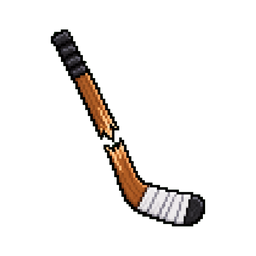
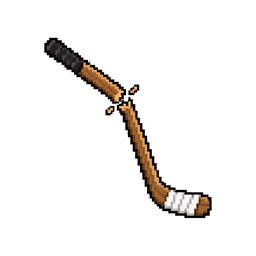
Front Office dice, inline tier art, new stick badge
The dice move from the draft spin to the Front Office screen, above Roll the
dice before the reels start (user placement; redrawn with white pips). The tier
name in the squad-summary forecast box and the results predicted-standing line
now shows the tier's badge art at text size instead of its emoji, using the
same PNGs as the big badges. The Eliminated badge is the user's redrawn broken
stick, padded a little smaller in the circle.

Changed region(s): [[0.1562, 0.0938, 0.8438, 0.9062]]

diff --git a/src/App.css b/src/App.css
@@ -362,24 +362,11 @@
 }
 
 .spin-placeholder {
-  display: flex;
-  flex-direction: column;
-  align-items: center;
-  gap: 14px;
   text-align: center;
   padding: 20px 0 8px;
   color: var(--ink-soft);
   font-size: 15px;
-}
-.spin-placeholder span {
   animation: pulse-fade 0.6s ease-in-out infinite alternate;
-}
-/* The dice hold still while the spin runs (a tumble was tried and dropped, user
-   2026-09-14); the pulsing caption underneath carries the "in progress" cue. */
-.spin-dice {
-  width: 150px;
-  height: 150px;
-  object-fit: contain;
 }
 
 @keyframes spin-pop {
@@ -1117,6 +1104,17 @@
   font-weight: 600;
   margin-top: 2px;
 }
+/* The tier's badge art at text size, in place of the emoji that used to sit
+   before the tier name inline (squad summary forecast box, results
+   "Predicted standing" line). Same PNGs as the big badge, so no extra assets. */
+.tier-inline-art {
+  display: inline-block;
+  width: 22px;
+  height: 22px;
+  object-fit: contain;
+  vertical-align: -5px;
+  margin-right: 5px;
+}
 .predicted-standing-note {
   font-size: 12px;
   color: var(--ink-soft);
@@ -1181,6 +1179,15 @@
   text-wrap: balance;
 }
 
+/* Dice art above the "Roll the dice" button on the Front Office screen (user
+   pixel art, 2026-09-14): the one moment the game literally rolls dice. */
+.front-office-dice {
+  display: block;
+  width: 150px;
+  height: 150px;
+  object-fit: contain;
+  margin: 4px auto 6px;
+}
 /* GM/Coach as two half-width cards under the lineup (below the goalie) in the recaps.
    Styled like the .results-roster-row player cards (same border, fill, radius) but
    half-width, with role stacked over name and much smaller text. */

diff --git a/src/components/FrontOfficeScreen.tsx b/src/components/FrontOfficeScreen.tsx
@@ -2,6 +2,8 @@ import { useState } from 'react';
 import type { GmCoachResult } from '../lib/gmCoach';
 import { TEAM } from '../teams/current';
 import { useSpinAnimation } from '../hooks/useSpinAnimation';
+// Pixel-art dice above the roll button, before the reels start (user art, 2026-09-14).
+import diceSrc from '../assets/dice.png';
 
 // Name lists for the spin-reel animation (display only). This screen is only ever
 // reached when the team has a front office, so the fallbacks never show.
@@ -73,9 +75,12 @@ export function FrontOfficeScreen({
       <h2 className="front-office-title">Your Front Office</h2>
 
       {!started ? (
-        <p className="front-office-intro">
-          The roster's set, now you need a GM and a coach. Good luck!
-        </p>
+        <>
+          <p className="front-office-intro">
+            The roster's set, now you need a GM and a coach. Good luck!
+          </p>
+          <img className="front-office-dice" src={diceSrc} alt="" />
+        </>
       ) : (
         <div className="front-office-cards">
           <Reel

diff --git a/src/components/RoundScreen.tsx b/src/components/RoundScreen.tsx
@@ -4,9 +4,6 @@ import { RosterPicker } from './RosterPicker';
 import { ProgressTracker } from './ProgressTracker';
 import { useSpinAnimation } from '../hooks/useSpinAnimation';
 import { TEAM } from '../teams/current';
-// Dice tumble under the season name while a spin is running, and the roster
-// takes their place the moment it lands (user art and placement, 2026-09-14).
-import diceSrc from '../assets/dice.png';
 
 export function RoundScreen({
   roundIndex,
@@ -44,10 +41,7 @@ export function RoundScreen({
       />
       <div className="round-content">
         {spinning ? (
-          <div className="spin-placeholder">
-            <img className="spin-dice" src={diceSrc} alt="" />
-            <span>Spinning the wheel…</span>
-          </div>
+          <div className="spin-placeholder">Spinning the wheel…</div>
         ) : (
           <RosterPicker
             season={season}

diff --git a/src/components/SquadSummaryScreen.tsx b/src/components/SquadSummaryScreen.tsx
@@ -6,6 +6,7 @@ import { computeSquadRatings } from '../lib/ratings';
 import { simulateRecord } from '../lib/simulate';
 import { getTierFromRosterScore } from '../lib/tiers';
 import type { GmCoachResult } from '../lib/gmCoach';
+import { TIER_BADGE_ART } from '../lib/badgeArt';
 
 function RatingBar({ label, value }: { label: string; value: number }) {
   return (
@@ -81,7 +82,8 @@ export function SquadSummaryScreen({
           {predicted.wins}-{predicted.losses}-{predicted.otl}
         </p>
         <p className="predicted-standing-tier">
-          {predictedTier.emoji} {predictedTier.label}
+          <img className="tier-inline-art" src={TIER_BADGE_ART[predictedTier.id]} alt="" />
+          {predictedTier.label}
         </p>
         <p className="predicted-standing-note">
           Based on roster quality alone. The real season still has to be played.

diff --git a/src/lib/badgeArt.ts b/src/lib/badgeArt.ts
@@ -3,8 +3,8 @@
 // emoji-to-pixel-art pass. Each PNG was drawn for this 84px circle, keyed off a
 // green screen, cropped to the glyph and centred in a 256px square so 2x and 3x
 // phone screens stay crisp. Glyph size is set by canvas padding, not CSS: the
-// cup is padded 1.04x its glyph; crown and medal 1.22x; the broken stick 1.30x;
-// tools, bubbles, skate and flame 1.40x, so the busier glyphs sit smaller in the
+// cup is padded 1.04x its glyph; crown and medal 1.22x; tools, bubbles, skate
+// and flame 1.40x; the broken stick 1.42x, so the busier glyphs sit smaller in the
 // circle (user sizing, 2026-09-14). Every tier has one; the emoji in each team's flavor pack is now only used by the
 // share text and the inline 'Predicted standing' lines.
 //

diff --git a/src/components/ResultsScreen.tsx b/src/components/ResultsScreen.tsx
@@ -136,7 +136,8 @@ export function ResultsScreen({
       </p>
 
       <p className="predicted-comparison">
-        Predicted standing: {predictedTier.emoji} {predictedTier.label} ({predicted.wins}-{predicted.losses}-{predicted.otl})
+        Predicted standing: <img className="tier-inline-art" src={TIER_BADGE_ART[predictedTier.id]} alt="" />
+        {predictedTier.label} ({predicted.wins}-{predicted.losses}-{predicted.otl})
       </p>
 
       {postseason &&
